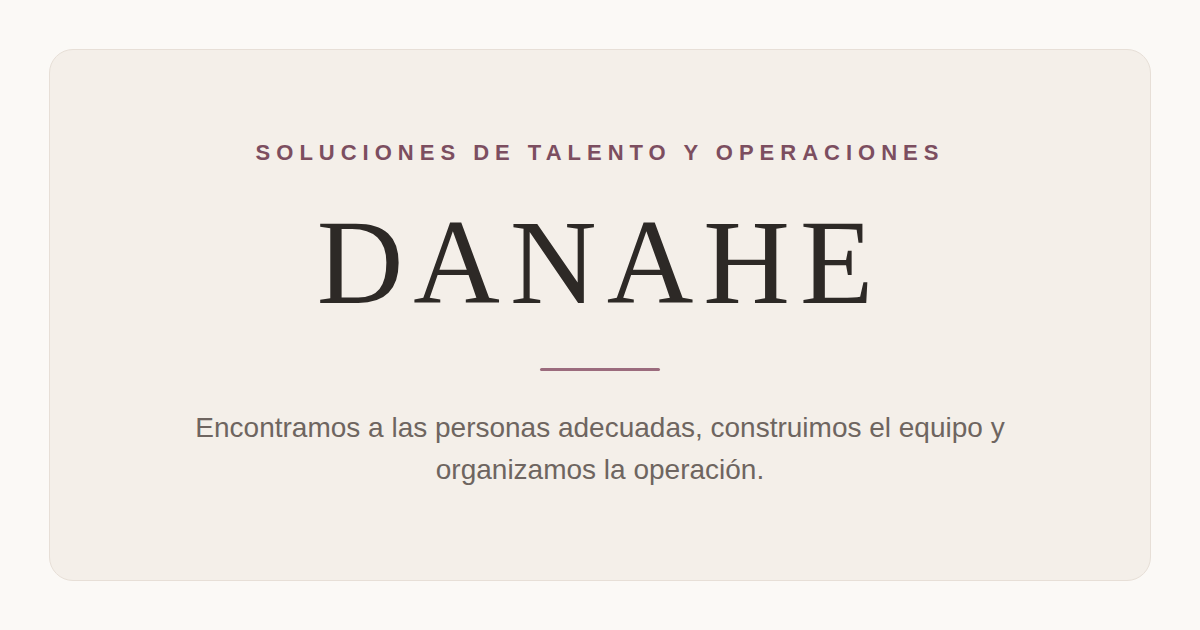
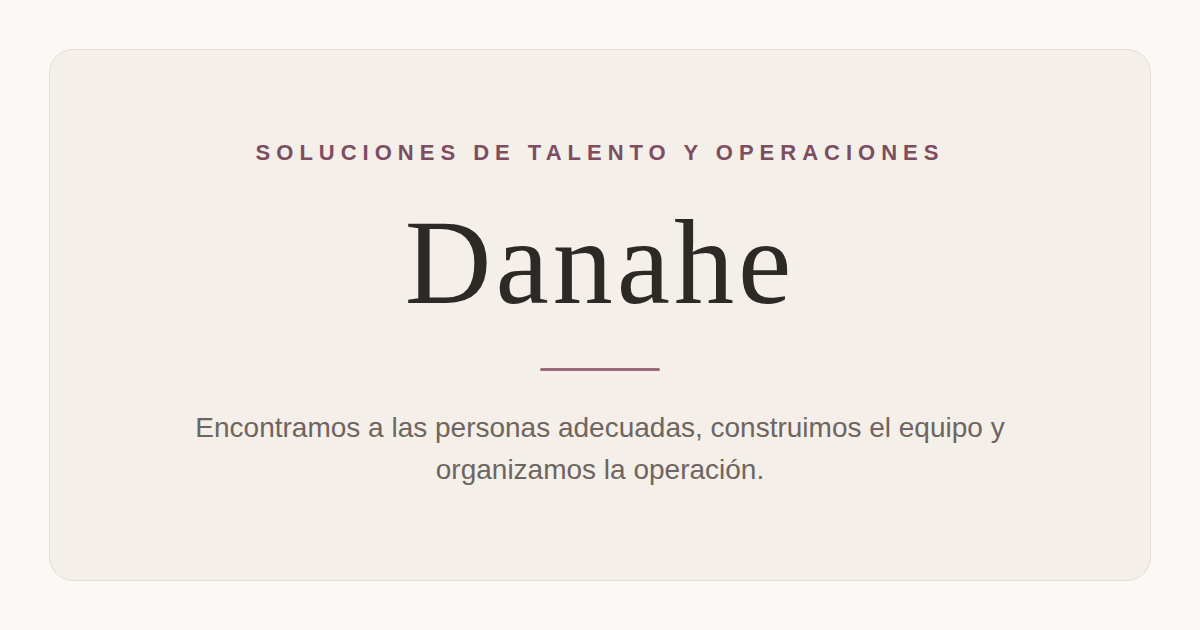
feat: use title-case Danahe as the brand wordmark
Replace the all-caps DANAHE with Danahe across the wordmark, copy,
config, metadata, manifest, emails, llms.txt, docs and the regenerated
social sharing image.

Claude-Session: https://claude.ai/code/session_013mhMHKAwxcrRhhE5WkNbkj

Changed region(s): [[0.2467, 0.3317, 0.74, 0.4825]]

diff --git a/content/home.ts b/content/home.ts
@@ -5,7 +5,7 @@ export const heroContent = {
   title:
     "Encontramos a las personas adecuadas, construimos el equipo y organizamos la operación para que cada servicio funcione mejor.",
   description:
-    "DANAHE trabaja con empresas, eventos y organizaciones que necesitan algo más que personal: necesitan que el servicio salga bien. Analizamos la necesidad, formamos el equipo, lo coordinamos y supervisamos la ejecución.",
+    "Danahe trabaja con empresas, eventos y organizaciones que necesitan algo más que personal: necesitan que el servicio salga bien. Analizamos la necesidad, formamos el equipo, lo coordinamos y supervisamos la ejecución.",
   primaryCta: { label: "Cuéntanos tu necesidad", href: "/contacto" },
   secondaryCta: { label: "Ver soluciones", href: "/soluciones" },
 };
@@ -83,7 +83,7 @@ export const homeOperationsContent = {
 };
 
 export const photoStripContent = {
-  title: "DANAHE en servicio",
+  title: "Danahe en servicio",
   photos: [
     { id: "barra", caption: "Montaje y servicio de barra" },
     { id: "congreso", caption: "Acreditación de congreso" },
@@ -172,7 +172,7 @@ export const resultsContent = {
 
 export const differentialContent = {
   eyebrow: "El diferencial",
-  title: "Qué hace diferente a DANAHE",
+  title: "Qué hace diferente a Danahe",
   points: [
     {
       title: "No cedemos personal: resolvemos servicios",
@@ -200,9 +200,9 @@ export const differentialContent = {
 export const founderContent = {
   eyebrow: "Quién está detrás",
   name: "Erika Danahe",
-  role: "Fundadora de DANAHE",
+  role: "Fundadora de Danahe",
   description:
-    "DANAHE nace de la experiencia real de Erika Danahe coordinando personas y operaciones en eventos, hostelería y servicios donde la ejecución y el trato lo son todo. De esa experiencia viene la forma de trabajar de la agencia: escuchar primero, organizar bien, poner responsables al frente y estar presente cuando el servicio ocurre.",
+    "Danahe nace de la experiencia real de Erika Danahe coordinando personas y operaciones en eventos, hostelería y servicios donde la ejecución y el trato lo son todo. De esa experiencia viene la forma de trabajar de la agencia: escuchar primero, organizar bien, poner responsables al frente y estar presente cuando el servicio ocurre.",
   note: "[Biografía ampliada pendiente: trayectoria y datos que Erika quiera hacer públicos.]",
 };
 
@@ -210,5 +210,5 @@ export const callToActionContent = {
   title: "Cuéntanos cómo es tu servicio",
   description:
     "Escríbenos y analizamos tu caso: qué necesitas, qué volumen tiene y qué debe salir bien. Te respondemos con una propuesta clara, sin compromiso.",
-  cta: { label: "Hablar con DANAHE", href: "/contacto" },
+  cta: { label: "Hablar con Danahe", href: "/contacto" },
 };

diff --git a/content/candidates.ts b/content/candidates.ts
@@ -2,7 +2,7 @@ export const candidatesPageContent = {
   eyebrow: "Trabaja con Danahe",
   title: "Profesionales que hacen que el servicio funcione",
   description:
-    "En DANAHE no buscamos gente para llenar huecos: construimos equipos con funciones claras, responsables al frente y servicios bien organizados. Si trabajas bien y te gusta que se note, queremos conocerte.",
+    "En Danahe no buscamos gente para llenar huecos: construimos equipos con funciones claras, responsables al frente y servicios bien organizados. Si trabajas bien y te gusta que se note, queremos conocerte.",
 };
 
 export const candidateProfilesContent = {
@@ -79,7 +79,7 @@ export const candidateExpectationsContent = {
 export const candidateResponsibilityContent = {
   title: "Tipos de responsabilidad",
   description:
-    "En DANAHE se puede crecer: los equipos tienen estructura y cada nivel asume más responsabilidad.",
+    "En Danahe se puede crecer: los equipos tienen estructura y cada nivel asume más responsabilidad.",
   levels: [
     {
       title: "Personal de servicio",
@@ -128,5 +128,5 @@ export const candidateFormContent = {
   description:
     "Cuéntanos tu experiencia, los perfiles que te interesan y tu disponibilidad. Leemos todas las candidaturas y te contactaremos cuando encaje con algún servicio.",
   privacyNote:
-    "Tus datos se usan únicamente para valorar tu candidatura e incluirte en procesos de selección de DANAHE. Puedes pedir su eliminación en cualquier momento.",
+    "Tus datos se usan únicamente para valorar tu candidatura e incluirte en procesos de selección de Danahe. Puedes pedir su eliminación en cualquier momento.",
 };

diff --git a/app/privacidad-candidatos/page.tsx b/app/privacidad-candidatos/page.tsx
@@ -5,7 +5,7 @@ import { siteConfig } from "@/config/site";
 export const metadata: Metadata = {
   title: "Privacidad para candidatos",
   description:
-    "Política de privacidad para candidatos de DANAHE: cómo tratamos los datos personales de quienes envían su candidatura.",
+    "Política de privacidad para candidatos de Danahe: cómo tratamos los datos personales de quienes envían su candidatura.",
   alternates: { canonical: "/privacidad-candidatos" },
 };
 
@@ -18,7 +18,7 @@ export default function CandidatePrivacyPage() {
         </h1>
         <p className="mt-5 leading-relaxed text-muted">
           Esta política describe cómo tratamos los datos personales de las
-          personas que envían su candidatura a DANAHE a través del formulario
+          personas que envían su candidatura a Danahe a través del formulario
           «Trabaja con Danahe», conforme al Reglamento (UE) 2016/679 (RGPD) y a
           la Ley Orgánica 3/2018 (LOPDGDD).
         </p>
@@ -40,7 +40,7 @@ export default function CandidatePrivacyPage() {
           <p className="mt-3 leading-relaxed text-muted">
             Los datos de tu candidatura se utilizan exclusivamente para
             valorar tu perfil e incorporarlo, en su caso, a los procesos de
-            selección de los servicios que gestiona DANAHE, y para contactarte
+            selección de los servicios que gestiona Danahe, y para contactarte
             en relación con dichos procesos.
           </p>
         </section>

diff --git a/content/solutions.ts b/content/solutions.ts
@@ -4,7 +4,7 @@ export const solutionsPageContent = {
   eyebrow: "Soluciones",
   title: "Soluciones de talento y operaciones",
   description:
-    "DANAHE no se limita a buscar personal. Analizamos cada necesidad, definimos las funciones, seleccionamos a las personas y organizamos la operación completa. Trabajamos en dos planos que se complementan: el talento y la operación. Puedes contratarlos juntos o por separado.",
+    "Danahe no se limita a buscar personal. Analizamos cada necesidad, definimos las funciones, seleccionamos a las personas y organizamos la operación completa. Trabajamos en dos planos que se complementan: el talento y la operación. Puedes contratarlos juntos o por separado.",
 };
 
 export const talentSolutionsGroup: SolutionGroup = {
@@ -155,7 +155,7 @@ export const operationalSolutionsGroup: SolutionGroup = {
   id: "soluciones-operativas",
   title: "Soluciones operativas",
   description:
-    "Operaciones completas diseñadas, coordinadas y supervisadas por DANAHE. Nos encargamos del servicio de principio a fin, con responsables en cada equipo.",
+    "Operaciones completas diseñadas, coordinadas y supervisadas por Danahe. Nos encargamos del servicio de principio a fin, con responsables en cada equipo.",
   items: [
     {
       id: "gestion-integral-de-barras",

diff --git a/app/privacidad/page.tsx b/app/privacidad/page.tsx
@@ -5,7 +5,7 @@ import { siteConfig } from "@/config/site";
 export const metadata: Metadata = {
   title: "Política de privacidad",
   description:
-    "Política de privacidad del sitio web de DANAHE: cómo tratamos los datos personales de las personas que nos contactan.",
+    "Política de privacidad del sitio web de Danahe: cómo tratamos los datos personales de las personas que nos contactan.",
   alternates: { canonical: "/privacidad" },
 };
 
@@ -18,7 +18,7 @@ export default function PrivacyPage() {
         </h1>
         <p className="mt-5 leading-relaxed text-muted">
           Esta política describe cómo tratamos los datos personales de las
-          personas que se ponen en contacto con DANAHE a través de este sitio
+          personas que se ponen en contacto con Danahe a través de este sitio
           web, conforme al Reglamento (UE) 2016/679 (RGPD) y a la Ley Orgánica
           3/2018 (LOPDGDD). Si nos escribes como candidato o candidata,
           consulta también la política de privacidad para candidatos.

diff --git a/app/aviso-legal/page.tsx b/app/aviso-legal/page.tsx
@@ -4,7 +4,7 @@ import { siteConfig } from "@/config/site";
 
 export const metadata: Metadata = {
   title: "Aviso legal",
-  description: "Aviso legal y condiciones de uso del sitio web de DANAHE.",
+  description: "Aviso legal y condiciones de uso del sitio web de Danahe.",
   alternates: { canonical: "/aviso-legal" },
 };
 
@@ -36,7 +36,7 @@ export default function LegalNoticePage() {
           <h2 className="font-serif text-xl">2. Objeto del sitio web</h2>
           <p className="mt-3 leading-relaxed text-muted">
             Este sitio web tiene por objeto dar a conocer los servicios de
-            DANAHE, agencia de soluciones de talento y operaciones, y facilitar
+            Danahe, agencia de soluciones de talento y operaciones, y facilitar
             el contacto de empresas interesadas y de personas candidatas.
           </p>
         </section>

diff --git a/app/trabaja-con-danahe/page.tsx b/app/trabaja-con-danahe/page.tsx
@@ -16,7 +16,7 @@ import {
 } from "@/content/candidates";
 
 const pageDescription =
-  "Envía tu candidatura a DANAHE: personal de barra y sala, azafatas y azafatos, promotores, administrativos, recepcionistas y mandos intermedios para servicios bien organizados.";
+  "Envía tu candidatura a Danahe: personal de barra y sala, azafatas y azafatos, promotores, administrativos, recepcionistas y mandos intermedios para servicios bien organizados.";
 
 export const metadata: Metadata = {
   title: "Trabaja con Danahe",
@@ -58,7 +58,7 @@ export default function WorkWithDanahePage() {
               </ul>
               <PhotoPlaceholder
                 aspect="3/2"
-                label="Equipo DANAHE en un servicio real"
+                label="Equipo Danahe en un servicio real"
                 className="mt-8"
               />
             </div>

diff --git a/config/site.ts b/config/site.ts
@@ -1,8 +1,8 @@
 // Centralized site, contact and business information.
 // Missing values stay empty on purpose: do not invent legal or contact data.
 export const siteConfig = {
-  name: "DANAHE Talent",
-  legalName: "DANAHE",
+  name: "Danahe Talent",
+  legalName: "Danahe",
   siteUrl: process.env.NEXT_PUBLIC_SITE_URL ?? "",
   email: "",
   candidateEmail: "",
@@ -16,4 +16,4 @@ export const siteConfig = {
 };
 
 export const siteDescription =
-  "DANAHE diseña soluciones de talento y operaciones: seleccionamos a las personas adecuadas, construimos el equipo y organizamos la operación para que cada servicio funcione mejor.";
+  "Danahe diseña soluciones de talento y operaciones: seleccionamos a las personas adecuadas, construimos el equipo y organizamos la operación para que cada servicio funcione mejor.";

diff --git a/content/faq.ts b/content/faq.ts
@@ -5,12 +5,12 @@ export const faqContent = {
   title: "Lo que nos suelen preguntar",
   items: [
     {
-      question: "¿DANAHE es una ETT?",
+      question: "¿Danahe es una ETT?",
       answer:
         "No. No cedemos trabajadores ni nos limitamos a cubrir puestos. Diseñamos soluciones de talento y operaciones: analizamos la necesidad, construimos el equipo, lo coordinamos y supervisamos el servicio.",
     },
     {
-      question: "¿DANAHE aporta personal o gestiona el servicio completo?",
+      question: "¿Danahe aporta personal o gestiona el servicio completo?",
       answer:
         "Las dos cosas, según lo que necesites. Podemos seleccionar y preparar perfiles concretos para tu equipo, o diseñar y operar el servicio completo con nuestros propios responsables y supervisión.",
     },

diff --git a/app/soluciones/page.tsx b/app/soluciones/page.tsx
@@ -9,7 +9,7 @@ import { solutionGroups, solutionsPageContent } from "@/content/solutions";
 import type { SolutionBlock } from "@/types";
 
 const pageDescription =
-  "Selección de perfiles, mandos intermedios, refuerzos y formación; barras, festivales, congresos, promociones y recintos deportivos. Así resuelve DANAHE cada servicio.";
+  "Selección de perfiles, mandos intermedios, refuerzos y formación; barras, festivales, congresos, promociones y recintos deportivos. Así resuelve Danahe cada servicio.";
 
 export const metadata: Metadata = {
   title: "Soluciones de talento y operaciones",

diff --git a/content/sectors.ts b/content/sectors.ts
@@ -4,7 +4,7 @@ export const sectorsPageContent = {
   eyebrow: "Sectores",
   title: "Dónde trabajamos",
   description:
-    "Cada sector tiene sus propios ritmos, riesgos y públicos. El método de DANAHE es el mismo — entender, estructurar, coordinar y supervisar —, pero la solución se diseña a medida de cada operación.",
+    "Cada sector tiene sus propios ritmos, riesgos y públicos. El método de Danahe es el mismo — entender, estructurar, coordinar y supervisar —, pero la solución se diseña a medida de cada operación.",
 };
 
 export const sectors: Sector[] = [

diff --git a/app/sectores/page.tsx b/app/sectores/page.tsx
@@ -9,7 +9,7 @@ import { webPageJsonLd } from "@/lib/structuredData";
 import { sectors, sectorsPageContent } from "@/content/sectors";
 
 const pageDescription =
-  "Festivales, congresos, empresas, hostelería, comercio, deporte, agencias y administraciones públicas: cómo adapta DANAHE sus equipos y operaciones a cada sector.";
+  "Festivales, congresos, empresas, hostelería, comercio, deporte, agencias y administraciones públicas: cómo adapta Danahe sus equipos y operaciones a cada sector.";
 
 export const metadata: Metadata = {
   title: "Sectores donde trabajamos",
